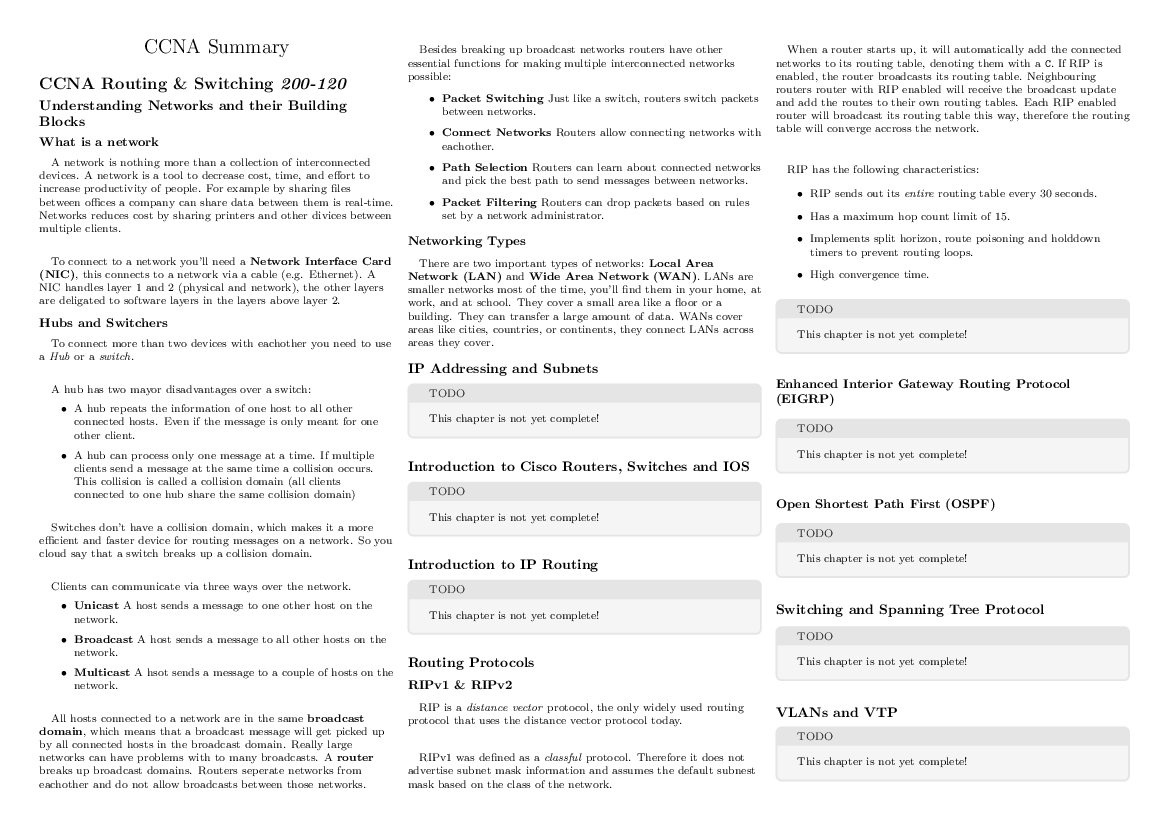
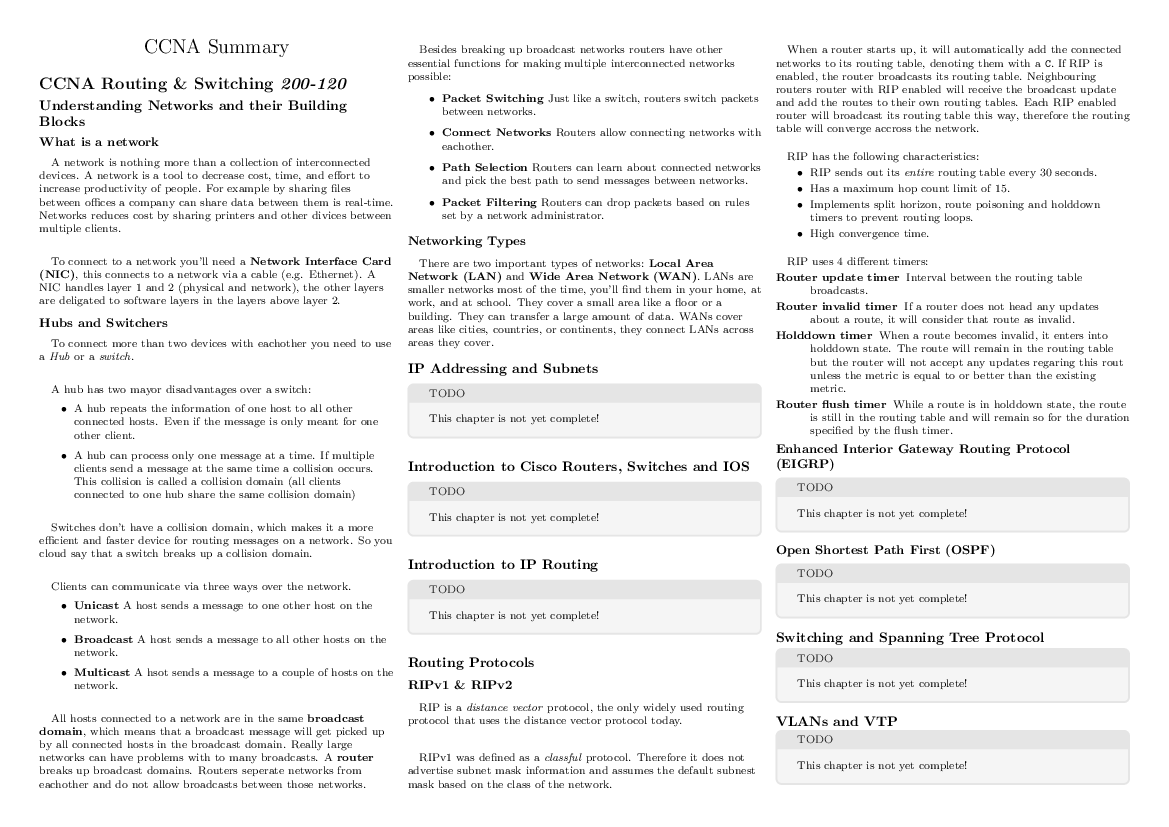
Updated RIP chapter

Changed region(s): [[0.6467, 0.1814, 0.9855, 0.9371]]

diff --git a/summary.tex b/summary.tex
@@ -168,9 +168,14 @@ RIP has the following characteristics:
 	\item Implements split horizon, route poisoning and holddown timers to prevent routing loops.
 	\item High convergence time.
 \end{itemize}
-\begin{textbox}{gray}{TODO}
-	This chapter is not yet complete!
-\end{textbox}
+\paragraph{}
+RIP uses 4 different timers:
+\begin{description}
+	\item[Router update timer] Interval between the routing table broadcasts.
+	\item[Router invalid timer] If a router does not head any updates about a route, it will consider that route as invalid.
+	\item[Holddown timer] When a route becomes invalid, it enters into holddown state. The route will remain in the routing table but the router will not accept any updates regaring this rout unless the metric is equal to or better than the existing metric.
+	\item[Router flush timer] While a route is in holddown state, the route is still in the routing table and will remain so for the duration specified by the flush timer.
+\end{description}
 
 \subsubsection{Enhanced Interior Gateway Routing Protocol (EIGRP)}
 \begin{textbox}{gray}{TODO}
@@ -200,17 +205,17 @@ As a matter of fact, no computer system in the world can be completely secure no
 Cisco IOS software running on Cisco routers has several built-in security tools that can be used as part of a good overall security strategy. Probably the most important security tool in Cisco IOS software are access control lists (ACL)
 
 \begin{description}
-	\item[C] Confidentiality - prevents acces to sensative information   
+	\item[C] Confidentiality - prevents acces to sensative information
 	\item[I] Integritiy - prevents unauthorized modification of data
 	\item[A] Availability  - prevents the loss of acces to information
 \end{description}
 
 In a medium to large enterprise, the typical secured network is built around a recipe of a perimeter router, a firewall device, and an internal router:
 \begin{description}
-	\item[Perimeter Router] is the border between enterprise resources and the public network (internet)  
+	\item[Perimeter Router] is the border between enterprise resources and the public network (internet)
 	\item[Firewall] Firewall allows sophisticated control of traffic flow.
-	\item[Internal Router]  provides addtional security by providing a point for further traffic control 
-	\item[DMZ] provides a buffer zone that seperates a trusted network from the untrusted network. 
+	\item[Internal Router]  provides addtional security by providing a point for further traffic control
+	\item[DMZ] provides a buffer zone that seperates a trusted network from the untrusted network.
 \end{description}
 
 Vulnerabilities, Threats and Exploits:
@@ -221,13 +226,13 @@ Vulnerabilities, Threats and Exploits:
 \end{description}
 
 \subsubsection{Type of Attacks}
-There are three major types of networks attacks 
+There are three major types of networks attacks
 \begin{itemize}
 	\item  Reconnaissance Attacks
 	\begin{itemize}
-		\item Information Lookup  
+		\item Information Lookup
 		\item Ping sweeps
-		\item Port scans 		
+		\item Port scans
 		\item Packet sniffer
 	\end{itemize}
 	\item  Access Attacks
@@ -240,18 +245,18 @@ There are three major types of networks attacks
 		\item Trust exploitation
 		\item Port redirection
 		\item Buffer overflows
-		\item Worms 
+		\item Worms
 		\item IP spoofing
 		\item ARP spoofing
 		\item Scareware
 		\item Adware
 	\item  Denial of Service
 		\item TCP SYN Attack
-		\item Smurf attack 
+		\item Smurf attack
 		\item Slowloris
 \end{itemize}
 \subsubsection{Counter measures}
-Physicial and Administrative security measures 
+Physicial and Administrative security measures
 \begin{itemize}
 	\item Locks
 	\item Biometric acces systems
@@ -261,7 +266,7 @@ Physicial and Administrative security measures
 	\item Racks
 	\item UPS
 	\item Positive air-flow systems
-	\item Fire Suppresion systems 
+	\item Fire Suppresion systems
 \end{itemize}
 \subsubsection{Layer 2 Security}
 \begin{textbox}{gray}{TODO}
